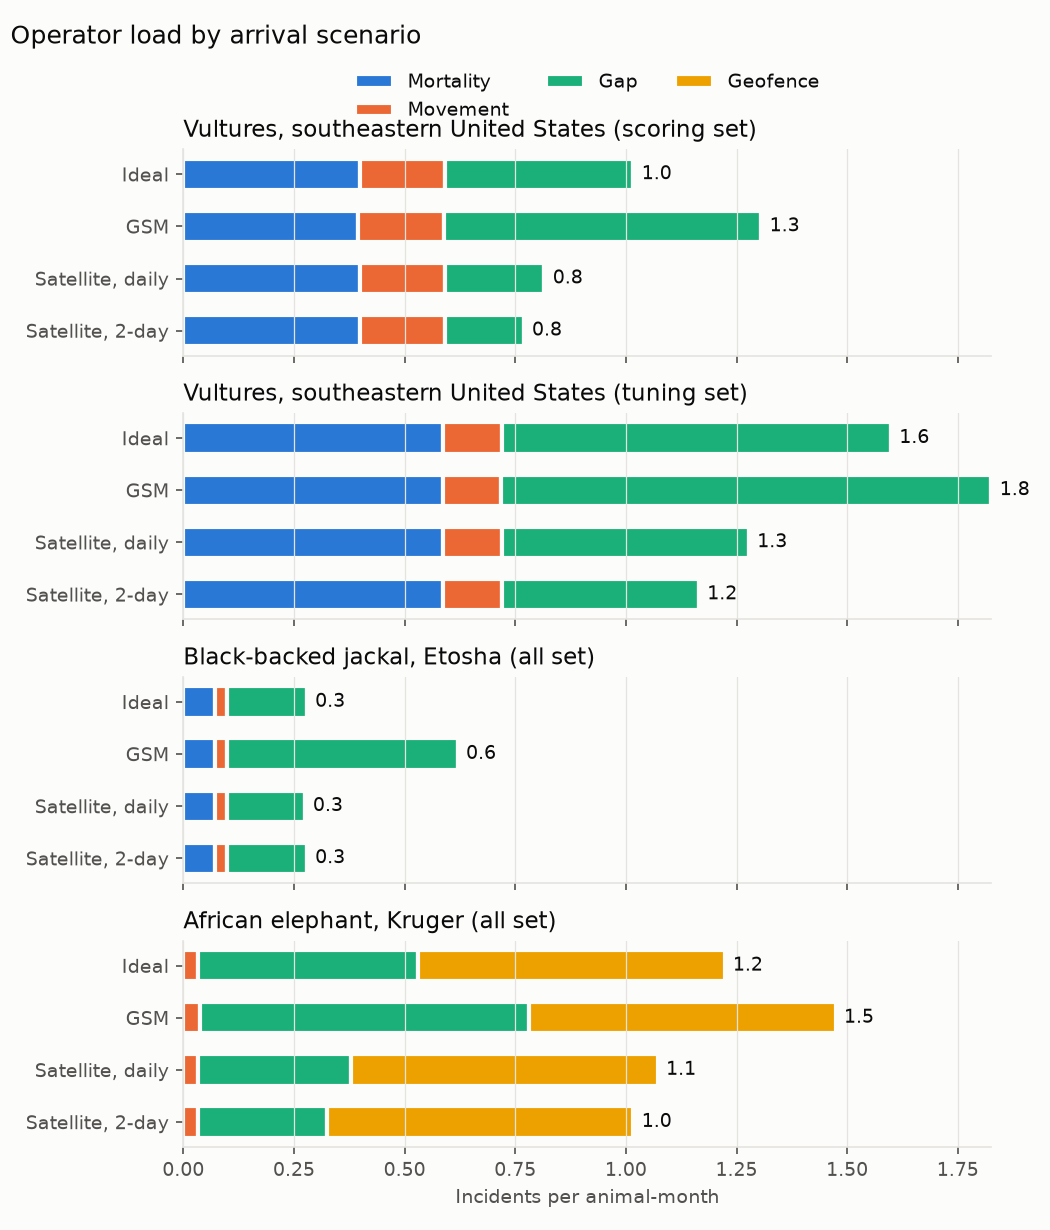
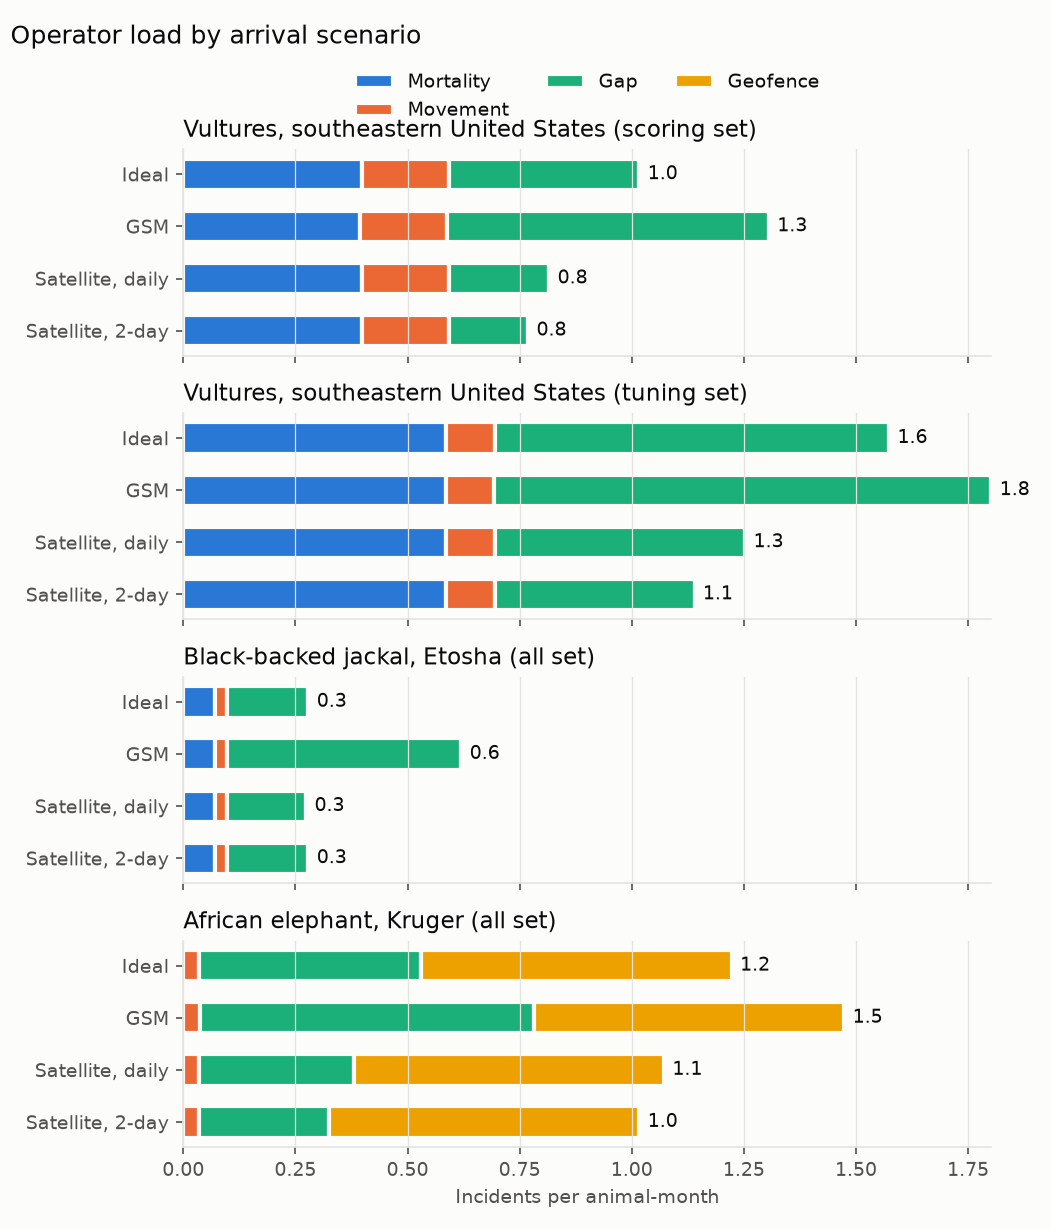
Update evaluation metrics, adjust movement incident calculations, and implement movement merge logic

diff --git a/src/telemetry/core/alerts.py b/src/telemetry/core/alerts.py
@@ -79,6 +79,9 @@ from datetime import datetime, timedelta
 OPEN = "open"
 MORTALITY = "mortality"
 GAP = "gap"
+MOVEMENT = "movement"
+# Provisional, chosen by eye from the stork tuning replays (step 3.1 (d)).
+MOVEMENT_MERGE = timedelta(hours=48)
 POTENTIAL_DEATH = "potential_death"
 RESOLVED = "resolved"
 LATE_FIX = "late_fix"
@@ -285,13 +288,23 @@ def default_merge_within() -> dict[str, timedelta]:
     48 h leaves at least 12 h of slack over every window up to 36 h, and
     ``telemetry.core.pipeline.merge_for`` lengthens it for a species with a
     longer window. ``potential_death``
-    follows mortality, since it resolves and reopens with it. Gap and
-    movement resolves are taken as final.
+    follows mortality, since it resolves and reopens with it.
+
+    Movement gets one because a migrating bird resolves at each overnight
+    roost and re-opens the next morning: on the stork tuning populations
+    the 10 km floor set the threshold for under a tenth of alerts, and
+    re-opens within 48 h of the previous one were about 60% of all of them
+    (step 3.1 (d)). The detector still re-arms and learns as before; only
+    the operator's incidents merge. Gap resolves are taken as final.
 
     Returns:
-        dict[str, timedelta]: Merge window by detector name.
+        Merge window by detector name.
     """
-    return {MORTALITY: timedelta(hours=48), POTENTIAL_DEATH: timedelta(hours=48)}
+    return {
+        MORTALITY: timedelta(hours=48),
+        POTENTIAL_DEATH: timedelta(hours=48),
+        MOVEMENT: MOVEMENT_MERGE,
+    }
 
 
 @dataclass(frozen=True)

diff --git a/tests/core/test_alerts.py b/tests/core/test_alerts.py
@@ -159,6 +159,18 @@ def test_reopen_after_the_window_is_a_new_incident():
     assert new.opened_at == START + 47 * HOUR and new.flaps == 0
 
 
+def test_default_merges_a_movement_reopen_within_48_hours():
+    """A migrating bird's next-morning re-open continues its movement incident."""
+    life, state = AlertLifecycle(), {}
+    [first] = life.apply(state, [opened(0, "movement")])
+    life.apply(state, [resolved(6, "movement", "normal")])
+    [back] = life.apply(state, [opened(20, "movement")])
+    assert back.incident_id == first.incident_id and back.flaps == 1
+    life.apply(state, [resolved(22, "movement", "normal")])
+    [new] = life.apply(state, [opened(71, "movement")])
+    assert new.incident_id != first.incident_id and new.flaps == 0
+
+
 def test_without_a_window_resolves_are_final():
     """A detector with no merge window never reopens an incident."""
     life, state = lifecycle(), {}

diff --git a/tests/analysis/test_sweep.py b/tests/analysis/test_sweep.py
@@ -7,6 +7,7 @@ from pathlib import Path
 from telemetry.sim.arrival import SCENARIOS
 from telemetry.analysis.evaluation import build_truth
 from telemetry.analysis.experiment import experiment
+from telemetry.core.alerts import MOVEMENT_MERGE
 from telemetry.core.fixes import Deployment, Fix
 from telemetry.core.geo import offset
 from telemetry.core.pipeline import MERGE_SLACK, Overrides
@@ -132,6 +133,7 @@ def test_merge_follows_a_long_species_window():
     assert long.config.merge_within["potential_death"] == 60 * HOUR + MERGE_SLACK
     other = overrides.lifecycle(overrides.profile(profile_for("Cathartes aura")))
     assert other.config.merge_within["mortality"] == 48 * HOUR
+    assert long.config.merge_within["movement"] == MOVEMENT_MERGE
 
 
 def test_species_override_reaches_the_replayed_stream():

diff --git a/src/telemetry/core/pipeline.py b/src/telemetry/core/pipeline.py
@@ -140,7 +140,9 @@ class Overrides:
         if merge is None:
             return AlertLifecycle()
         return AlertLifecycle(
-            LifecycleConfig({MORTALITY: merge, POTENTIAL_DEATH: merge})
+            LifecycleConfig(
+                {**default_merge_within(), MORTALITY: merge, POTENTIAL_DEATH: merge}
+            )
         )
 
     def to_dict(self) -> dict:

diff --git a/results/evaluation/EVALUATION.md b/results/evaluation/EVALUATION.md
@@ -137,10 +137,10 @@ Unplanned ends that finish stationary; not counted as false alarms. Mortality de
 
 | Scenario | Mortality | False mortality | Movement | Gap | Gap, late upload | Gap resolved late | Geofence |
 |---|---|---|---|---|---|---|---|
-| Ideal | 0.59 | 0.57 | 0.14 | 0.88 | 0.00 | 0% | – |
-| GSM | 0.59 | 0.57 | 0.13 | 1.11 | 0.23 | 21% | – |
-| Satellite, daily | 0.59 | 0.57 | 0.14 | 0.56 | 0.10 | 18% | – |
-| Satellite, 2-day | 0.59 | 0.57 | 0.14 | 0.44 | 0.13 | 29% | – |
+| Ideal | 0.59 | 0.57 | 0.11 | 0.88 | 0.00 | 0% | – |
+| GSM | 0.59 | 0.57 | 0.11 | 1.11 | 0.23 | 21% | – |
+| Satellite, daily | 0.59 | 0.57 | 0.11 | 0.56 | 0.10 | 18% | – |
+| Satellite, 2-day | 0.59 | 0.57 | 0.11 | 0.44 | 0.13 | 29% | – |
 
 ### Deaths
 
